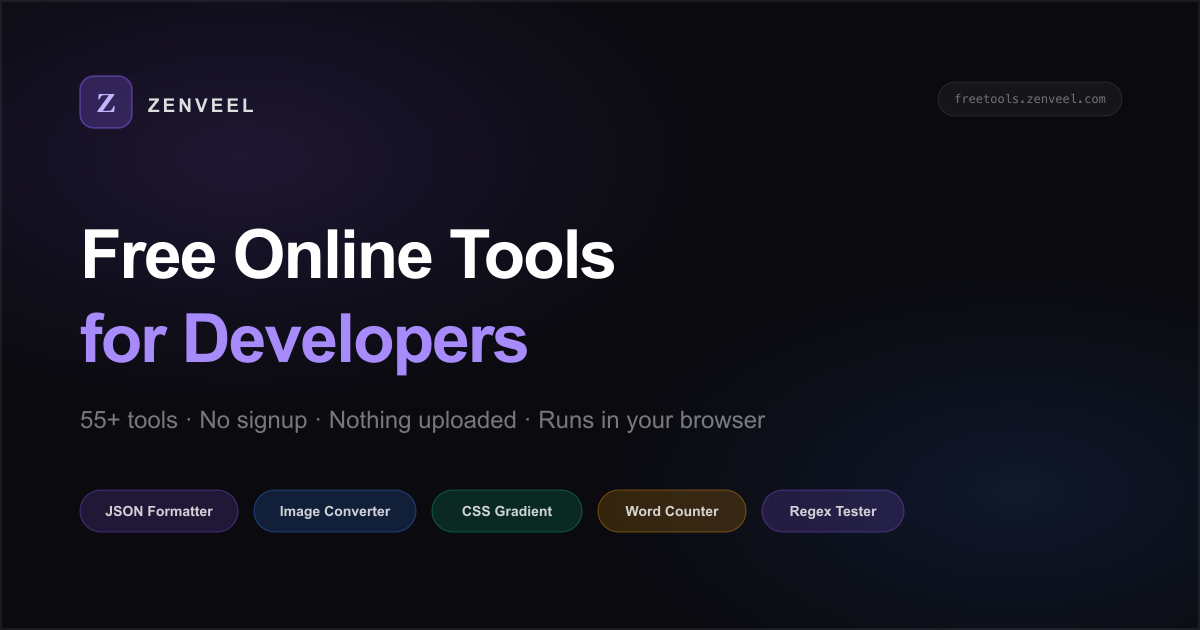
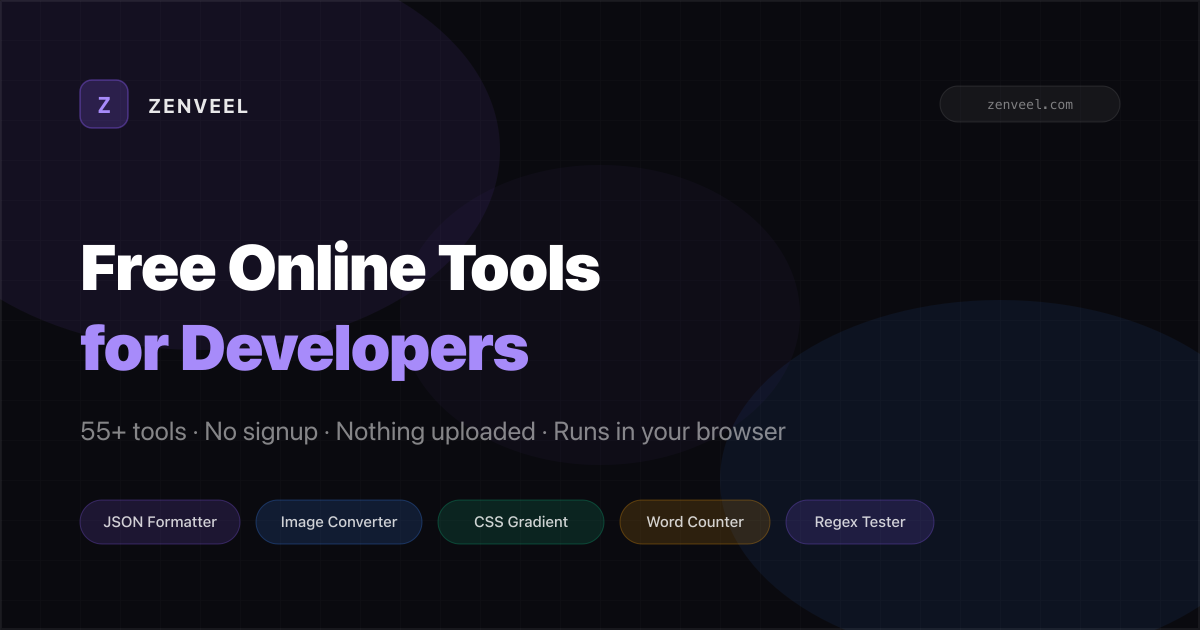
migrate from freetools.zenveel.com to zenveel.com

diff --git a/app/layout.tsx b/app/layout.tsx
@@ -4,6 +4,7 @@ import './globals.css'
 import Navbar from '@/components/layout/Navbar'
 import Footer from '@/components/layout/Footer'
 import AdSlot from '@/components/ui/AdSlot'
+import { BASE_URL } from '@/lib/constants'
 
 const geistSans = Geist({
   variable: '--font-geist-sans',
@@ -22,18 +23,18 @@ const orbitron = Orbitron({
 })
 
 export const metadata: Metadata = {
-  metadataBase: new URL('https://freetools.zenveel.com'),
+  metadataBase: new URL(BASE_URL),
   title: {
     default: 'Zenveel — Free Online Tools for Developers',
     template: '%s — Zenveel',
   },
-  description: '55+ free browser-based utility tools for developers and creators. JSON formatter, image converter, CSS generators, text tools, and more. No signup. Nothing uploaded. Everything runs in your browser.',
+  description: '60+ free browser-based utility tools for developers and creators. JSON formatter, image converter, CSS generators, text tools, and more. No signup. Nothing uploaded. Everything runs in your browser.',
   alternates: {
-    canonical: 'https://freetools.zenveel.com/',
+    canonical: `${BASE_URL}/`,
   },
   openGraph: {
     title: 'Zenveel — Free Online Tools for Developers',
-    description: '55+ free browser-based utility tools for developers and creators. JSON formatter, image converter, CSS generators, text tools, and more. No signup. Nothing uploaded. Everything runs in your browser.',
+    description: '60+ free browser-based utility tools for developers and creators. JSON formatter, image converter, CSS generators, text tools, and more. No signup. Nothing uploaded. Everything runs in your browser.',
     url: '/',
     siteName: 'Zenveel',
     type: 'website',
@@ -42,7 +43,7 @@ export const metadata: Metadata = {
   twitter: {
     card: 'summary_large_image',
     title: 'Zenveel — Free Online Tools for Developers',
-    description: '55+ free browser-based utility tools for developers and creators. JSON formatter, image converter, CSS generators, text tools, and more. No signup. Nothing uploaded. Everything runs in your browser.',
+    description: '60+ free browser-based utility tools for developers and creators. JSON formatter, image converter, CSS generators, text tools, and more. No signup. Nothing uploaded. Everything runs in your browser.',
     images: ['/og-image.png'],
   },
 }

diff --git a/app/dev/time-duration-converter/page.tsx b/app/dev/time-duration-converter/page.tsx
@@ -4,6 +4,7 @@ import { useState } from 'react'
 import ToolLayout from '@/components/ui/ToolLayout'
 import CopyButton from '@/components/ui/CopyButton'
 import SeoSection from '@/components/ui/SeoSection'
+import { BASE_URL } from '@/lib/constants'
 
 type UnitId = 'ms' | 's' | 'min' | 'h' | 'd' | 'w' | 'mo' | 'yr'
 
@@ -114,7 +115,7 @@ export default function TimeDurationConverterPage() {
             '@context': 'https://schema.org',
             '@type': 'WebApplication',
             name: 'Milliseconds to Seconds Converter Online',
-            url: 'https://freetools.zenveel.com/dev/time-duration-converter',
+            url: `${BASE_URL}/dev/time-duration-converter`,
             featureList: ['Milliseconds to seconds', 'Seconds to minutes', 'Minutes to hours', 'Hours to days', 'Time unit converter', 'API timeout calculator', 'TTL converter', 'Cron interval converter'],
           }) }} />
           <SeoSection

diff --git a/components/ui/ToolLayout.tsx b/components/ui/ToolLayout.tsx
@@ -2,7 +2,7 @@ import Link from 'next/link'
 import * as LucideIcons from 'lucide-react'
 import { ChevronRight, Home } from 'lucide-react'
 import { getRelatedTools, TOOLS } from '@/lib/tools'
-import { CATEGORIES } from '@/lib/constants'
+import { CATEGORIES, BASE_URL } from '@/lib/constants'
 import { Category } from '@/lib/types'
 import ToolCard from './ToolCard'
 
@@ -38,7 +38,7 @@ export default function ToolLayout({ toolId, title, description, category, iconN
     '@type': 'WebApplication',
     name: `${title} Online`,
     description,
-    url: `https://freetools.zenveel.com${toolHref}`,
+    url: `${BASE_URL}${toolHref}`,
     applicationCategory: 'UtilitiesApplication',
     operatingSystem: 'Web',
     offers: { '@type': 'Offer', price: '0', priceCurrency: 'USD' },

diff --git a/lib/constants.ts b/lib/constants.ts
@@ -1,5 +1,7 @@
 import { Category } from './types'
 
+export const BASE_URL = 'https://zenveel.com'
+
 export type CategoryMeta = {
   label: string
   description: string
